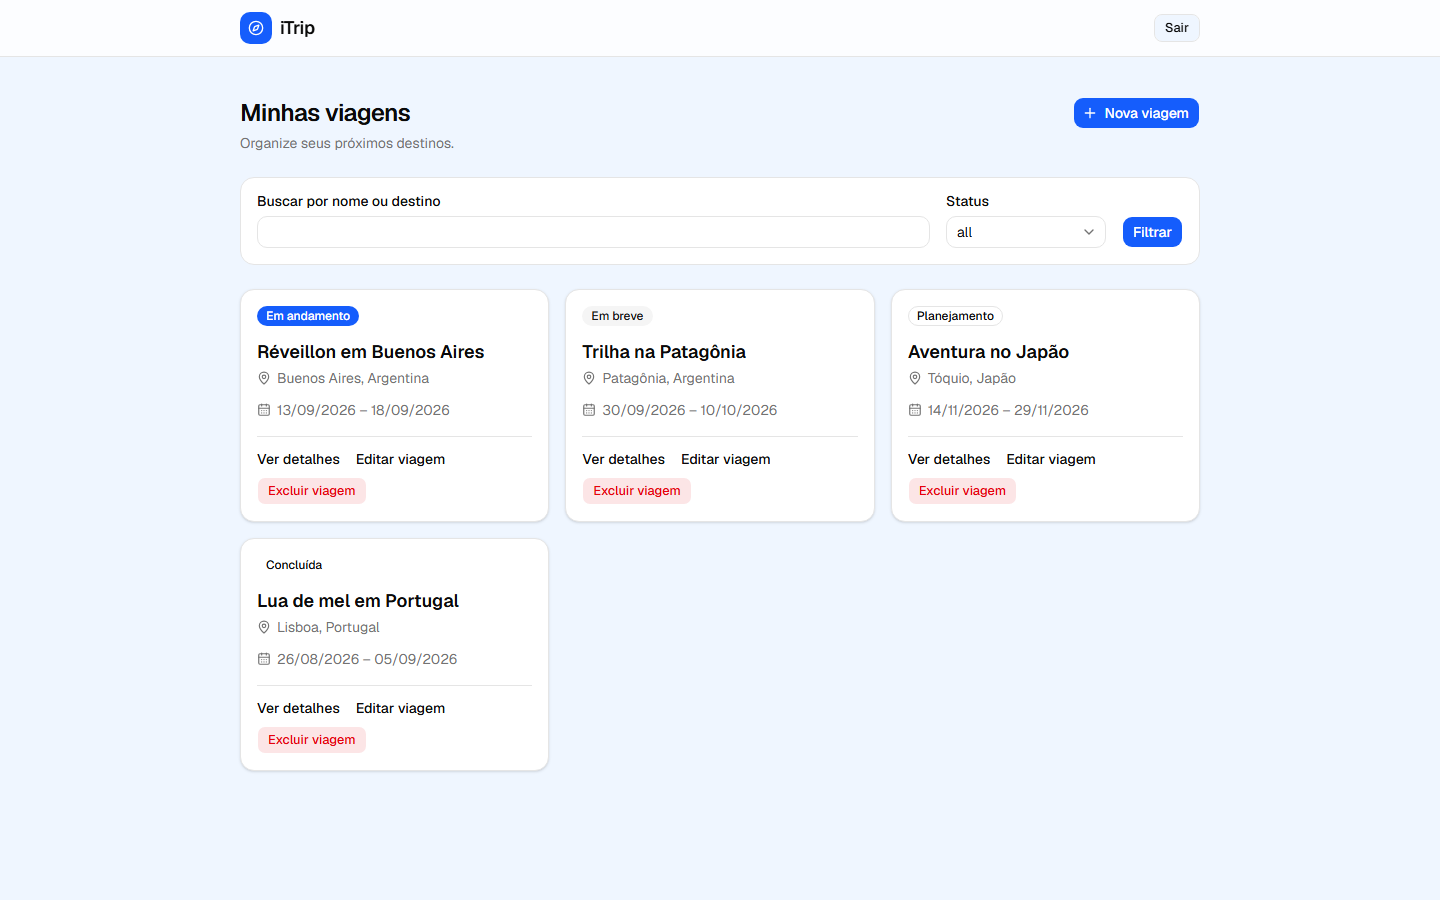
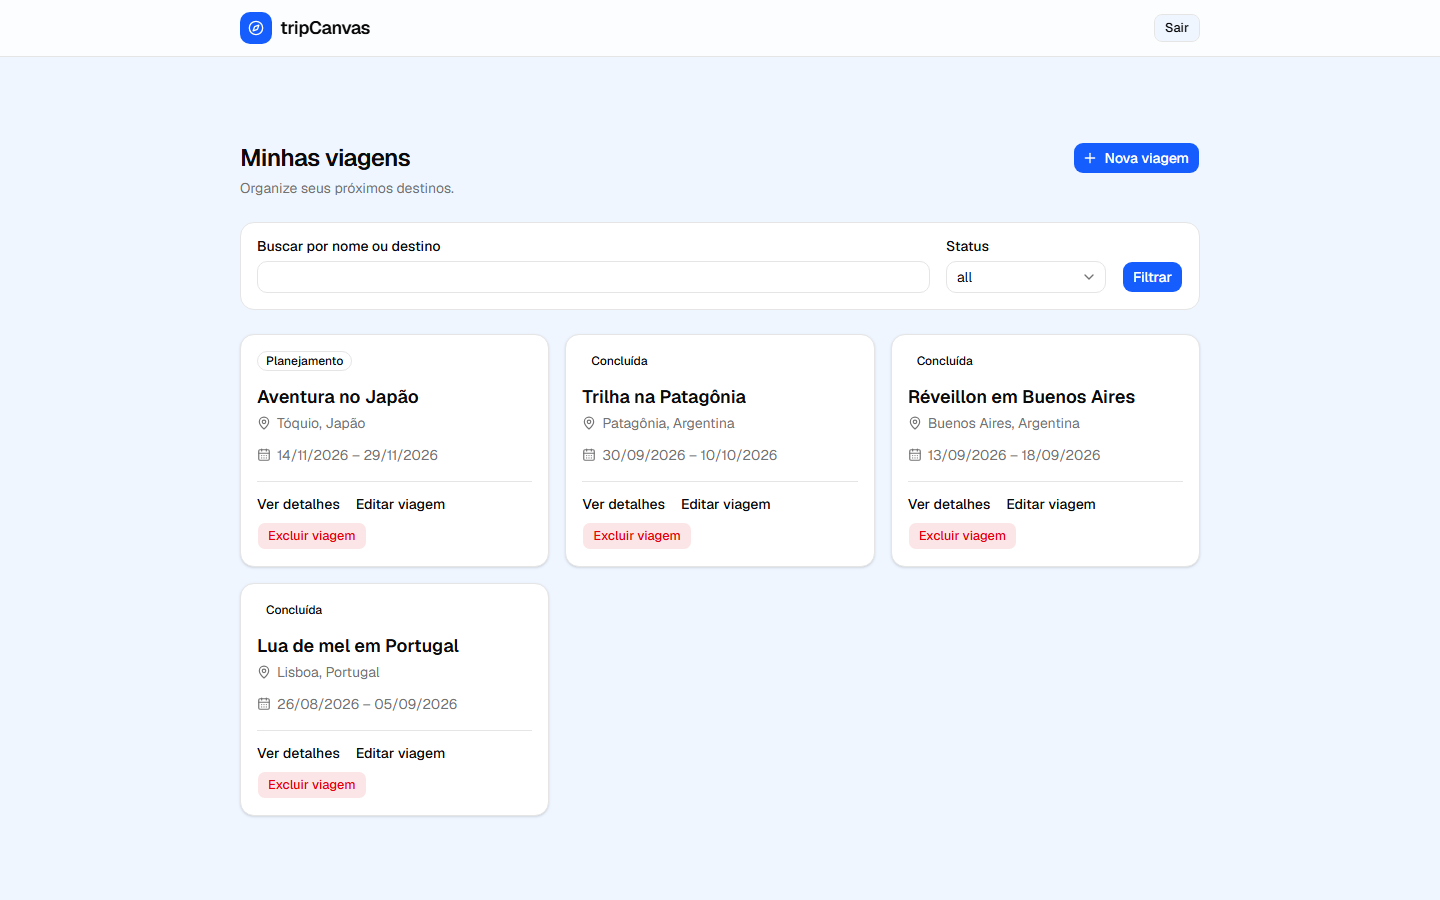
rebrand: rename public-facing app name from iTrip to tripCanvas
Updates UI text, page metadata, favicon accessible name, and the README
presentation copy. Internal identifiers (package name, Docker/Supabase
project ids, the itrip.local redirect-allowlist constant) and the
historical docs/ technical notes are intentionally left unchanged.

diff --git a/app/page.tsx b/app/page.tsx
@@ -59,7 +59,7 @@ export default function Home() {
         </section>
 
         <section
-          aria-label="Benefícios do iTrip"
+          aria-label="Benefícios do tripCanvas"
           className="flex flex-1 flex-col justify-center border-t border-border"
         >
           <div className="mx-auto grid w-full max-w-5xl grid-cols-1 gap-4 px-4 py-12 sm:grid-cols-3 sm:px-6 lg:px-8">
@@ -78,7 +78,7 @@ export default function Home() {
 
       <footer className="border-t border-border">
         <p className="mx-auto w-full max-w-5xl px-4 py-6 text-center text-sm text-muted-foreground sm:px-6 lg:px-8">
-          <span className="font-medium text-foreground">iTrip</span> · Organize suas viagens em um
+          <span className="font-medium text-foreground">tripCanvas</span> · Organize suas viagens em um
           só lugar.
         </p>
       </footer>

diff --git a/app/dashboard/layout.tsx b/app/dashboard/layout.tsx
@@ -33,7 +33,7 @@ export default async function DashboardLayout({ children }: { children: React.Re
             className="flex items-center gap-2 text-lg font-semibold tracking-tight text-foreground"
           >
             <Logo />
-            iTrip
+            tripCanvas
           </Link>
           <form action={signOut}>
             <Button type="submit" variant="outline" size="sm">

diff --git a/app/cadastro/page.tsx b/app/cadastro/page.tsx
@@ -10,7 +10,7 @@ export default function SignupPage() {
         className="flex items-center gap-2 self-center text-lg font-semibold tracking-tight text-foreground"
       >
         <Logo />
-        iTrip
+        tripCanvas
       </Link>
 
       <div className="rounded-xl border border-border bg-card p-6 shadow-sm">

diff --git a/app/login/page.tsx b/app/login/page.tsx
@@ -11,7 +11,7 @@ export default function LoginPage() {
         className="flex items-center gap-2 self-center text-lg font-semibold tracking-tight text-foreground"
       >
         <Logo />
-        iTrip
+        tripCanvas
       </Link>
 
       <div className="rounded-xl border border-border bg-card p-6 shadow-sm">

diff --git a/components/home/site-header.tsx b/components/home/site-header.tsx
@@ -11,7 +11,7 @@ export function SiteHeader() {
           className="flex items-center gap-2 text-lg font-semibold tracking-tight text-foreground"
         >
           <Logo />
-          iTrip
+          tripCanvas
         </Link>
 
         <nav aria-label="Autenticação" className="flex items-center gap-2">

diff --git a/app/layout.tsx b/app/layout.tsx
@@ -13,7 +13,7 @@ const geistMono = Geist_Mono({
 });
 
 export const metadata: Metadata = {
-  title: "iTrip",
+  title: "tripCanvas",
   description: "Organize suas viagens em um só lugar.",
 };
 

diff --git a/README.md b/README.md
@@ -1,8 +1,8 @@
-# iTrip
+# tripCanvas
 
 **Plan your trips. Ship quality on top of them.**
 
-iTrip is a full-stack travel planning MVP built as the target application for a
+tripCanvas is a full-stack travel planning MVP built as the target application for a
 hands-on Quality Engineering portfolio. It lets people sign up, manage their trips,
 and keep a simple itinerary — and it exists so that authentication, business rules,
 data ownership, and UI flows can be tested the way a real product would be.
@@ -19,21 +19,21 @@ data ownership, and UI flows can be tested the way a real product would be.
 
 **Landing page**
 
-![iTrip landing page](docs/screenshots/landing-page.png)
+![tripCanvas landing page](docs/screenshots/landing-page.png)
 
 **Authenticated dashboard**
 
-![iTrip dashboard](docs/screenshots/dashboard.png)
+![tripCanvas dashboard](docs/screenshots/dashboard.png)
 
 ## About the project
 
 Trip planning tends to end up scattered across notes apps, spreadsheets, and chat
 threads: destinations, dates, and the small tasks around a trip rarely live in one
-place. iTrip gives that a single, structured home — sign up, create a trip with its
+place. tripCanvas gives that a single, structured home — sign up, create a trip with its
 destination and dates, write a free-form itinerary, and find it later by name,
 destination, or status.
 
-This is not a repository of tests bolted onto a toy app. iTrip was built with real
+This is not a repository of tests bolted onto a toy app. tripCanvas was built with real
 constraints on purpose: authenticated routes, server-side authorization checks,
 row-level data ownership in PostgreSQL, input validation, and generic error
 responses that don't leak internal state. Those are the boundaries a Quality
